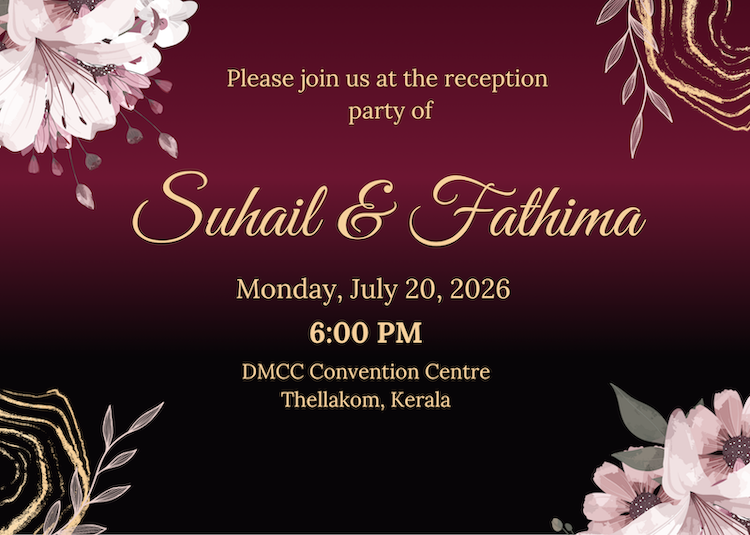
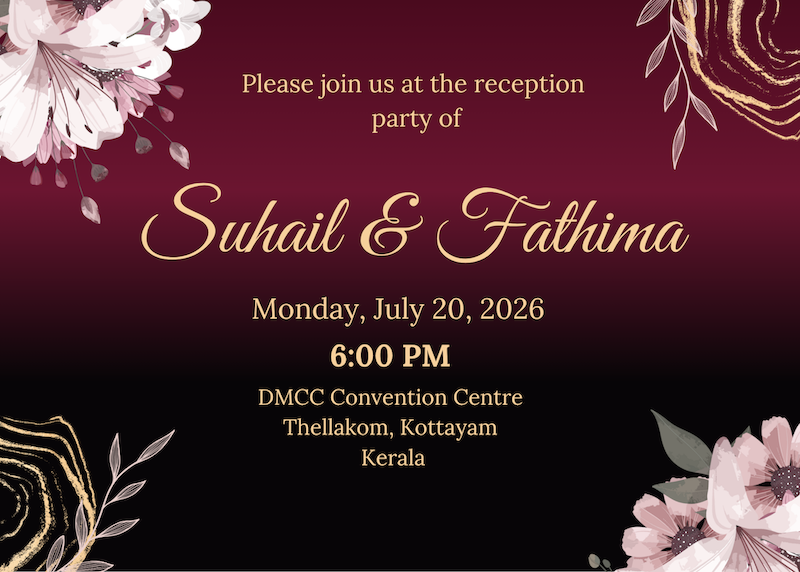
update location address

diff --git a/index.html b/index.html
@@ -522,6 +522,15 @@
             line-height: 1.55;
         }
 
+        .detail-value-secondary {
+            font-family: 'Playfair Display', serif;
+            font-size: 12px;
+            font-weight: 200;
+            color: var(--text-dim);
+            line-height: 1.65;
+            margin-top: 10px;
+        }
+
         .detail-divider {
             background: linear-gradient(180deg, transparent, var(--gold), transparent);
             width: 1px;
@@ -1072,6 +1081,7 @@
                 <div class="detail-block">
                     <span class="detail-label">Venue</span>
                     <span class="detail-value">DMCC Convention Centre</span>
+                    <span class="detail-value-secondary"><br> Thellakom, Kottayam <br>Kerala</span>
                 </div>
             </div>
         </div>
